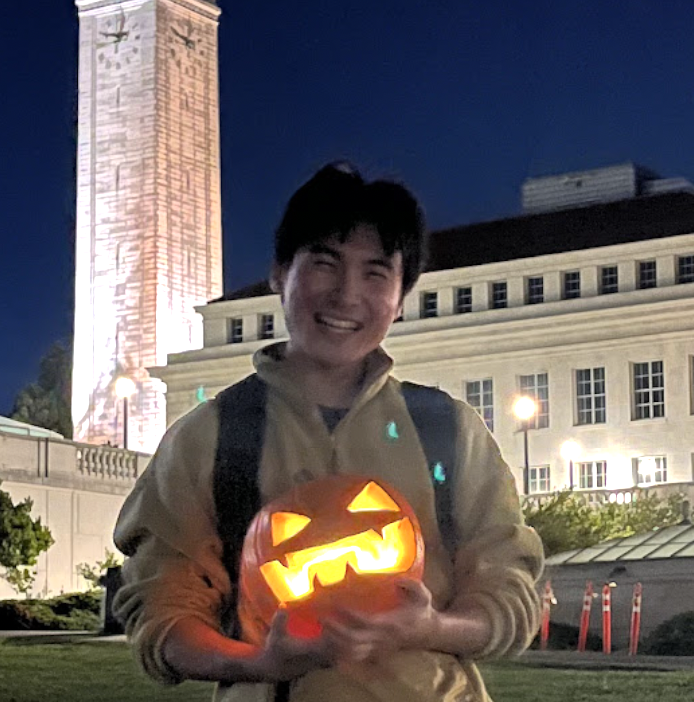
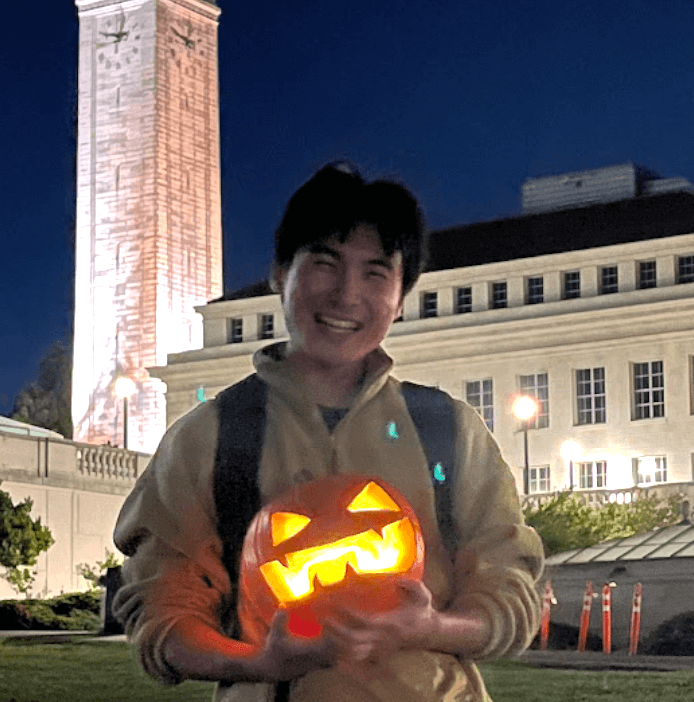
image compressions go brrr

Changed region(s): [[0.3631, 0.688, 0.6052, 0.8675], [0.6052, 0.6581, 0.6354, 0.688], [0.2723, 0.5385, 0.3026, 0.5684]]

diff --git a/about/about.html b/about/about.html
@@ -25,19 +25,19 @@
         <hr>
         <p>I was born and raised in Seoul, Korea up until middle school, but went to high school in Jeju island-a volcanic island at the southern tip of Korea. I spent a lot of time biking and diving in the waters. Seeing the beauties of the waters made me want to study marine science or physics in college.
         <br>
-        <center><img src="images/jeju_hyeopjae.JPG" alt="Hyeopjae beach in Jeju" width="900" height="auto" style="margin-left:auto; margin-right: auto;"></center>
+        <center><img src="images/jeju_hyeopjae.jpeg" alt="Hyeopjae beach in Jeju" width="900" height="auto" style="margin-left:auto; margin-right: auto;"></center>
         
         <div class="heading">UC Berkeley - Freshmen 2019</div>
         <hr>
         <p> A lot changed my first semester there. I took an introductory cs class taught in Snap!(berkeley's version of scratch) with the nudge of a friend and loved it. Maybe it was the combination of having a friend to do fun projects with along with many dorm friends also taking cs classes.
         <br>
-        <center><img src="images/cal_glade.JPG" alt="UC Berkeley glade view" width="900" height="auto" style="margin-left:auto; margin-right: auto;"></center>
+        <center><img src="images/cal_glade.jpeg" alt="UC Berkeley glade view" width="900" height="auto" style="margin-left:auto; margin-right: auto;"></center>
 
         <div class="heading">Korean Navy 2020~2022</div>
         <hr>
         <p> When covid struck I came back to Korea and served in the Korean Navy. I was on a battleship as a boatswain's mate, but towards the end of my service I met a friend who introduced me to ML. It was a happy combination of science and engineering. After my service, I did my first ML project in underwater CV where I turned my distorted diving photos into ones that were clean.
         <br>
-        <center><img src="images/deep_seann.png" alt="Deep SeaNN outputs" width="900" height="auto" style="margin-left:auto; margin-right: auto;"></center>
+        <center><img src="images/deep_seann.jpg" alt="Deep SeaNN outputs" width="900" height="auto" style="margin-left:auto; margin-right: auto;"></center>
 
         
         <div class="heading">UC Berkeley - 2022~April 2024</div>

diff --git a/posts/mpt/mpt_part1.html b/posts/mpt/mpt_part1.html
@@ -20,7 +20,7 @@
         <p>NVIDIA's latest GPU, the Blackwell series, has taken another leap forward with its support for FP4 representations. But where did this idea of leveraging lower precision formats for efficient ML all start? What are the techniques used to amend underflows/overflows despite using reduced precision formats? This series on Mixed Precision Training explores the origins and evolutions of this approach, starting from the OG Mixed Precision Training paper released way back in 2017.</p>
         <p><em>tldr</em>: Normal ML training is done with full precision(FP32). Mixed Precision Training reduces memory requirements to less than 50% by using reduced precision(FP16) for subsets of the model, all without losing model accuracy.</p>
         <br>
-        <center><img src="images/GPU_timeline.png" alt="NVIDIA's GPU Timeline" width="1000" height="auto" style="margin-left:auto; margin-right: auto;"></center>
+        <center><img src="images/GPU_timeline.jpg" alt="NVIDIA's GPU Timeline" width="1000" height="auto" style="margin-left:auto; margin-right: auto;"></center>
     <br>
         <h2>Background:</h2>
     <p>Neural network training is limited by three factors:</p>
